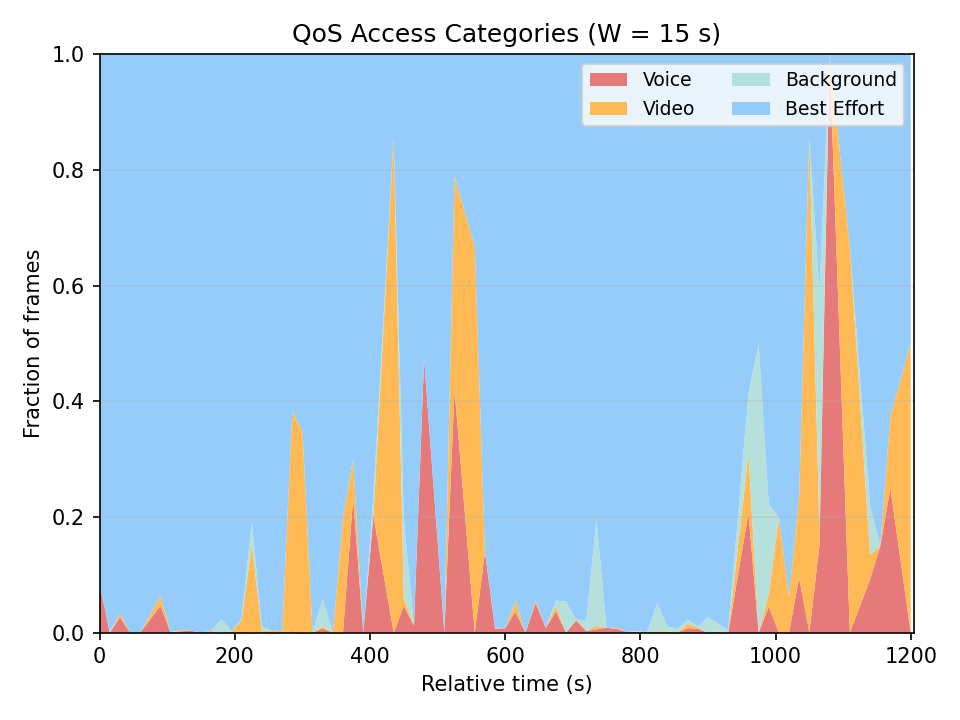
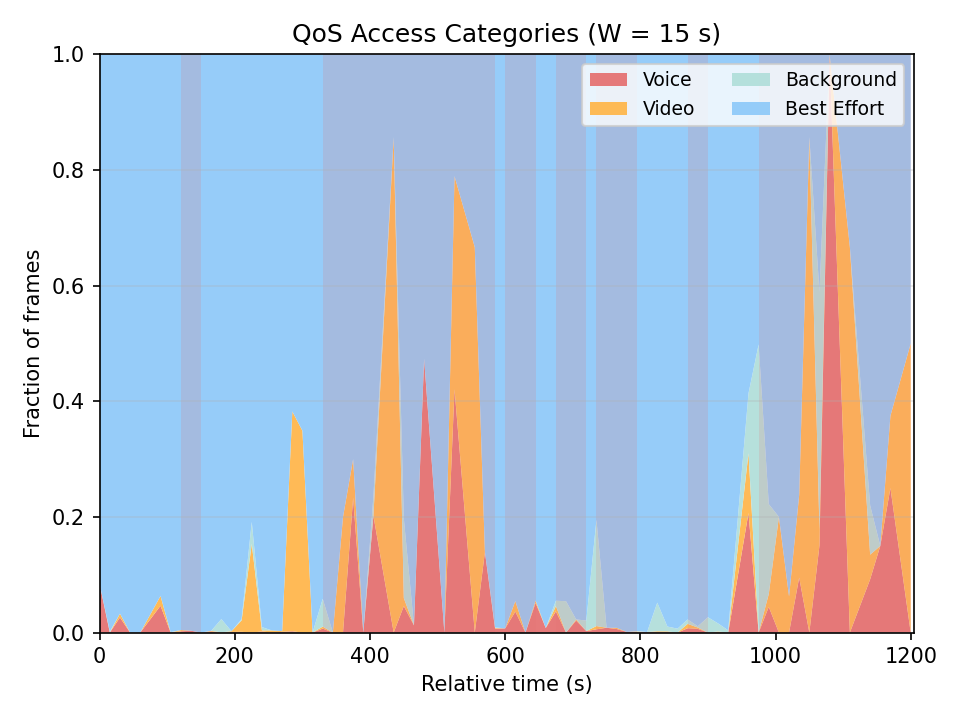
Refined plots, added SNR, added shading to QoS

diff --git a/src/plots.py b/src/plots.py
@@ -28,6 +28,8 @@ else:
 
 for c in ["wlan.sa","wlan.da","wlan.ta","wlan.ra"]:
     df_raw[c] = df_raw[c].astype(str).str.lower()
+df_raw["wlan_radio.snr"] = pd.to_numeric(df_raw["wlan_radio.snr"], errors="coerce")
+
 
 t_min = float(df_raw["frame.time_epoch"].min())
 t_max = float(df_raw["frame.time_epoch"].max())
@@ -111,6 +113,8 @@ agg = df.groupby(["win_id","direction"]).agg(
     len_var=("frame.len","var"),
     rssi_mean=("radiotap.dbm_antsignal","mean"),
     rssi_std=("radiotap.dbm_antsignal","std"),
+    snr_mean=("wlan_radio.snr","mean"),
+    snr_std =("wlan_radio.snr","std"),
 ).reset_index()
 
 # Inter-arrival times inside each window/direction
@@ -129,7 +133,10 @@ wide.columns = ["_".join(c).strip() for c in wide.columns.to_flat_index()]
 wide = wide.reset_index()
 
 # Derived (normalized by W)
-for base in ["pkts","bytes","len_mean","len_var","rssi_mean","rssi_std","iat_mean","iat_var"]:
+for base in ["pkts","bytes","len_mean","len_var",
+             "rssi_mean","rssi_std",
+             "snr_mean","snr_std",     # <<— aggiunte
+             "iat_mean","iat_var"]:
     for d in ["Uplink","Downlink"]:
         col = f"{base}_{d}"
         if col not in wide.columns: wide[col] = np.nan
@@ -281,6 +288,7 @@ ys      = [qos_frac[ac].values for ac in order]
 colors  = [color_map[ac]       for ac in order]
 labels  = [label_map[ac]       for ac in order]
 ax7.stackplot(x, *ys, labels=labels, colors=colors, alpha=0.95)
+shade_sleep_fraction(ax7)
 ax7.set_title(f"QoS Access Categories (W = {W} s)")
 ax7.set_xlabel("Relative time (s)")
 ax7.set_ylabel("Fraction of frames")
@@ -290,6 +298,18 @@ ax7.legend(loc="upper right", ncol=2, fontsize=9)
 ax7.grid(True, axis="y", alpha=0.3)
 fig7.tight_layout()
 fig7.savefig(f"./data/plot_qos_composition_W{W}.png", dpi=150)
+
+# SNR
+snr = wide["snr_mean_Uplink"].where(~wide["snr_mean_Uplink"].isna(), wide["snr_mean_Downlink"])
+fig8, ax8 = plt.subplots()
+ax8.plot(wide["t_rel_start"], snr, label="SNR")
+ax8.set_title("Signal-to-Noise Ratio")
+ax8.set_xlabel("Relative time (s)")
+ax8.set_ylabel("SNR (dB)")
+ax8.set_xlim(left=0, right=t_max - t0)
+ax8.set_ylim(bottom=0)
+ax8.legend(); ax8.grid(True); fig8.tight_layout()
+fig8.savefig(f"./data/plot_snr_W{W}.png", dpi=150)
 
 print("Plots saved in ./data")
 
